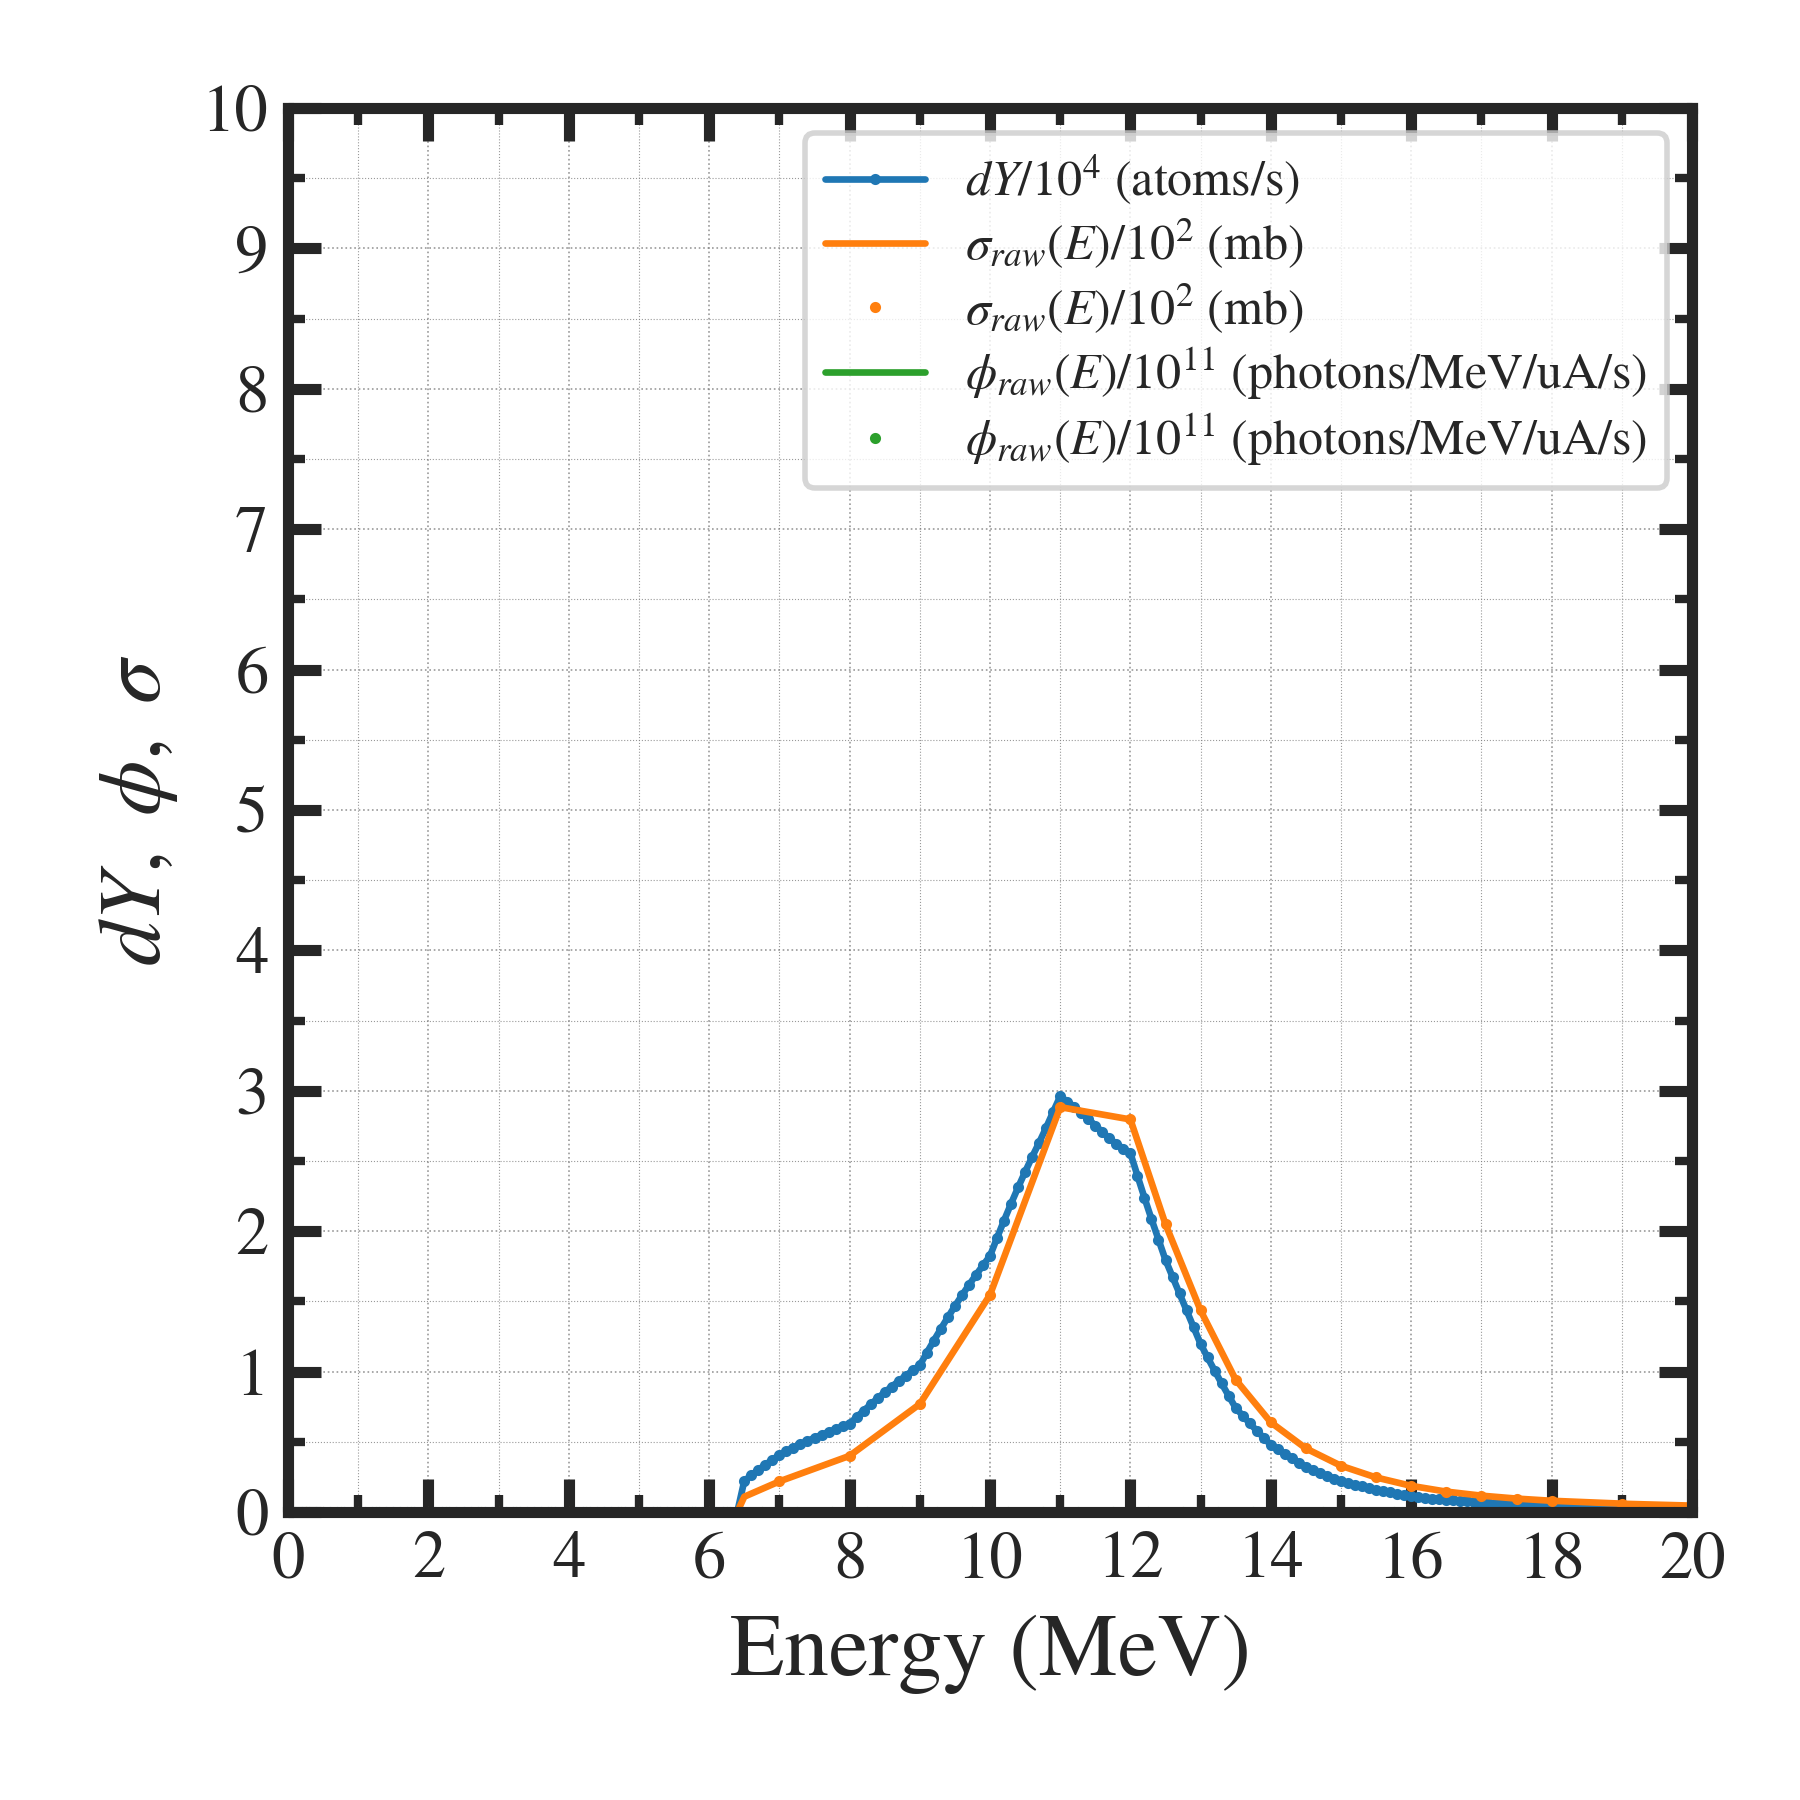
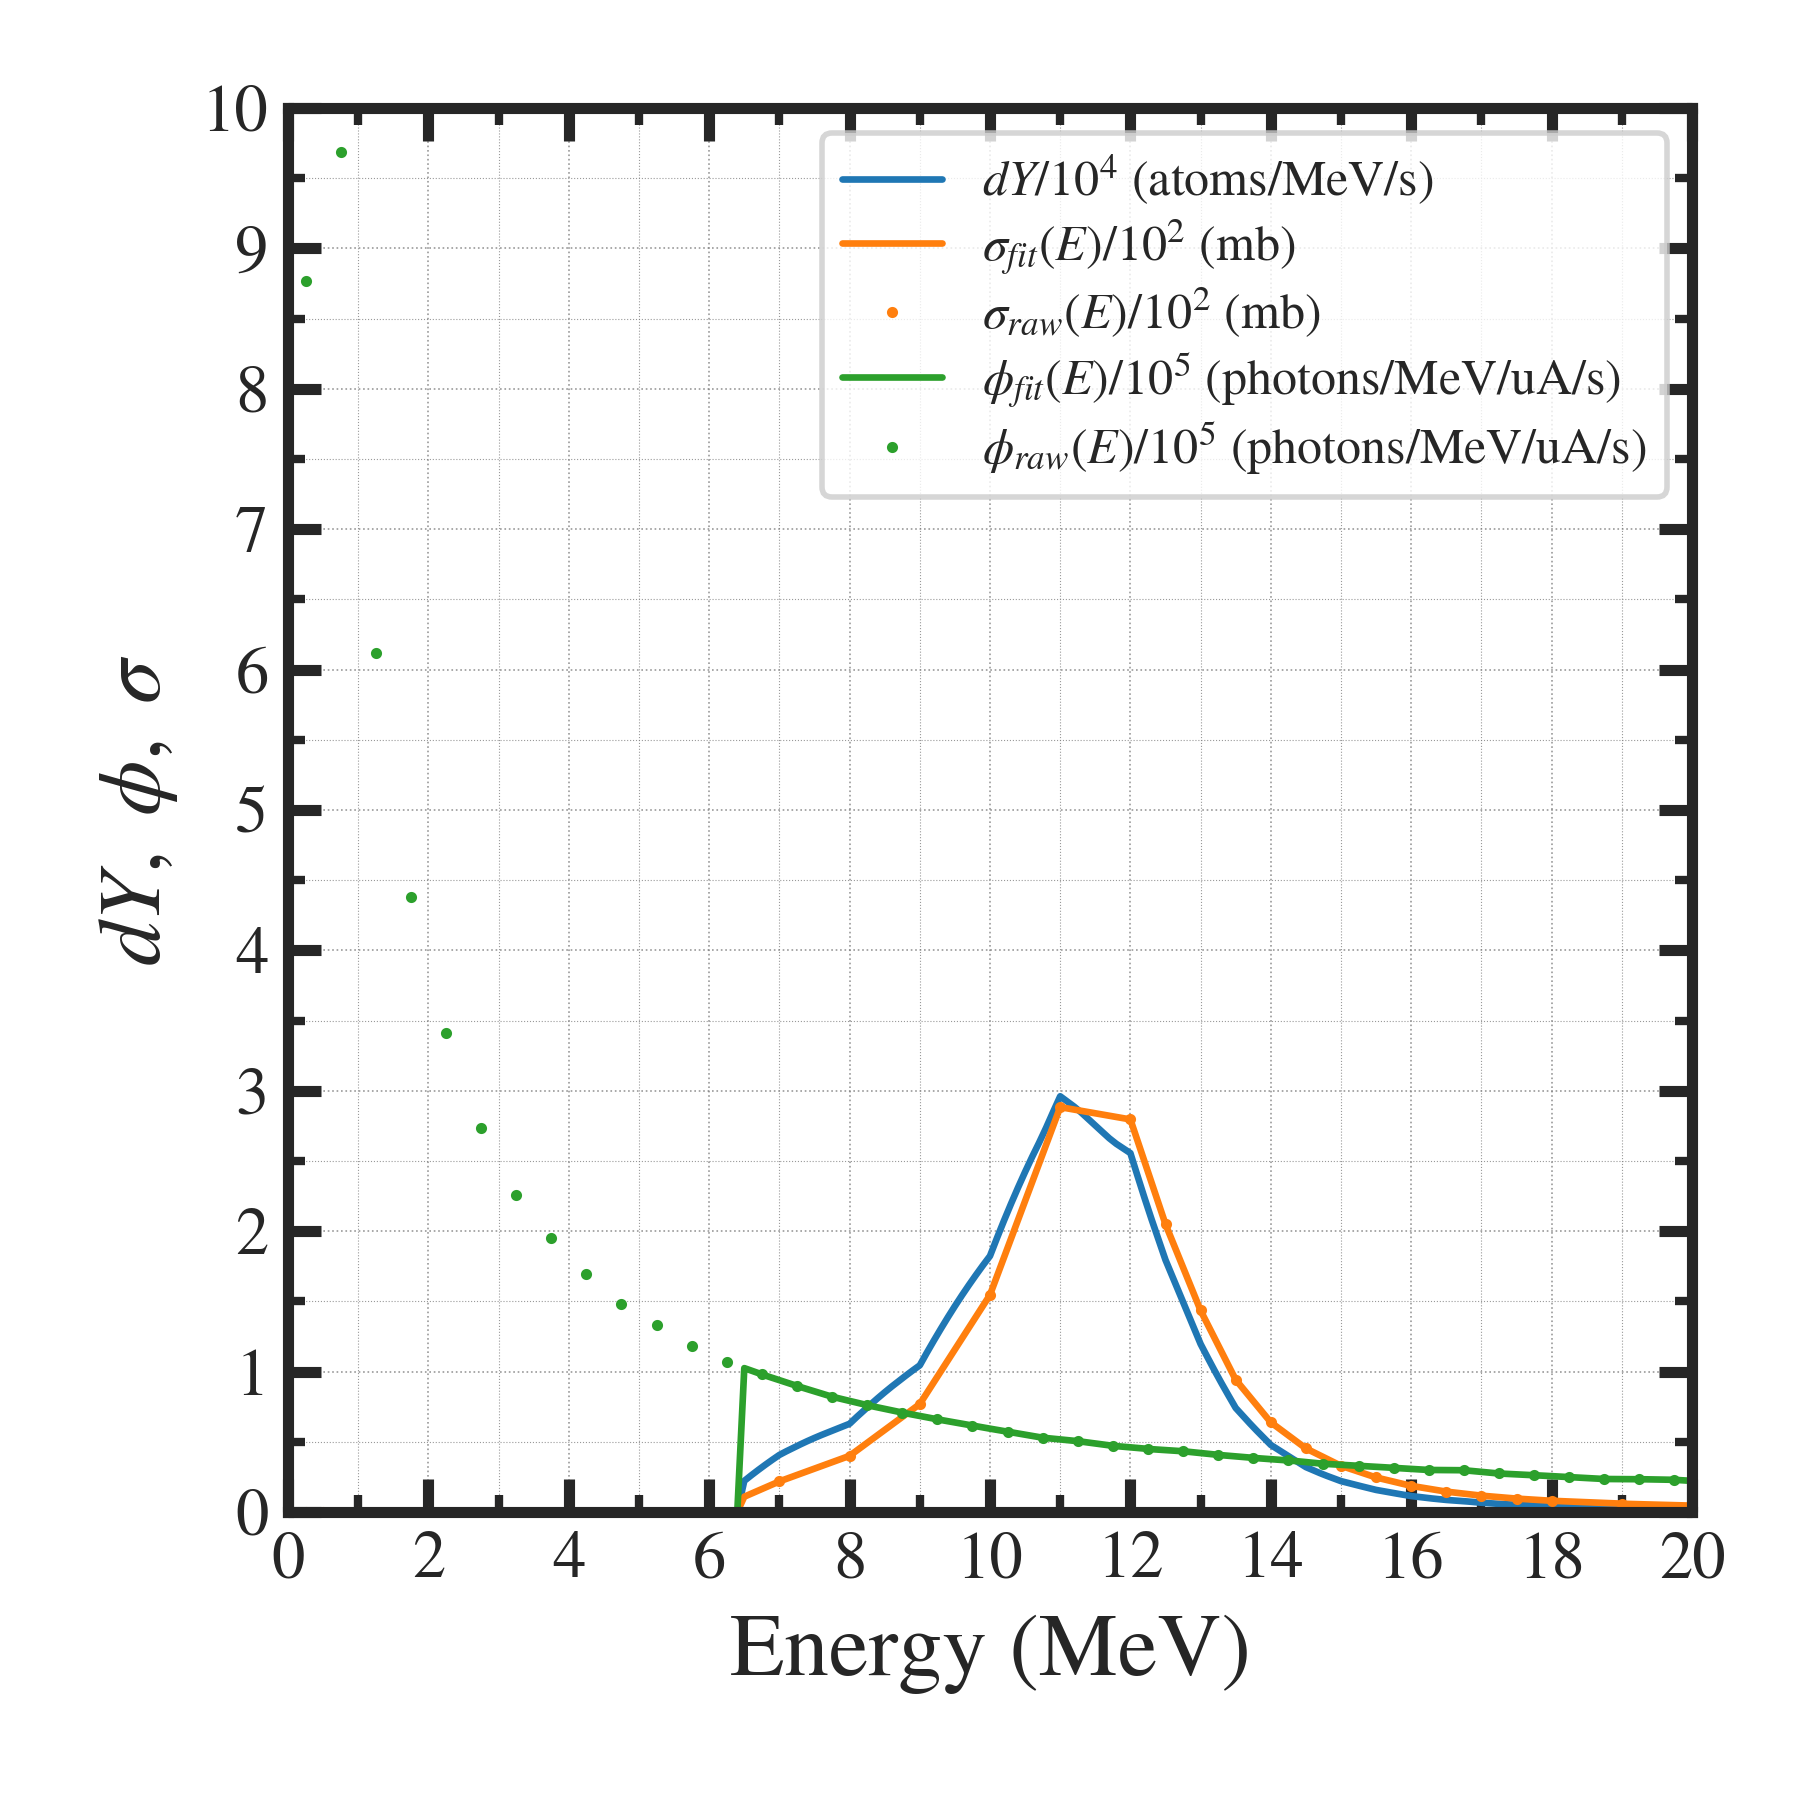
update

Changed region(s): [[0.4356, 0.0622, 0.9333, 0.28], [0.4044, 0.7467, 0.9333, 0.84]]

diff --git a/pyt/estimate__RIproduction.py b/pyt/estimate__RIproduction.py
@@ -82,7 +82,7 @@ def estimate__RIproduction():
     # ------------------------------------------------- #
     Data = { "params":params, "EAxis":EAxis, "results":results, \
              "pf_fit":pf_fit, "xs_fit":xs_fit, "dYield":dYield }
-    write__results( Data=Data, outFile=params["results.filename"] )
+    write__results( Data=Data, params=params )
     return( YieldRate )
 
 
@@ -163,21 +163,24 @@ def draw__figures( params=None, EAxis=None, pf_fit=None, xs_fit=None, \
     # ------------------------------------------------- #
     # --- [1] configure data                        --- #
     # ------------------------------------------------- #
-    if ( params["plot.dYield.norm.auto"] ):
-        params["plot.dYield.norm"] = 10.0**( math.floor( np.log10( abs( np.max( dYield ) ) ) ) )
-    xs_fit_plot = xs_fit        / params["plot.xsection.norm"]
-    pf_fit_plot = pf_fit        / params["plot.photon.norm"]
-    xs_raw_plot = xs_raw[:,xs_] / params["plot.xsection.norm"]
-    pf_raw_plot = pf_raw[:,pf_] / params["plot.photon.norm"]
-    dY_plot     = dYield        / params["plot.dYield.norm"]
-    xs_norm_str = "10^{" + str( round( math.log10( params["plot.xsection.norm"] ) ) ) + "}"
-    pf_norm_str = "10^{" + str( round( math.log10( params["plot.photon.norm"]   ) ) ) + "}"
-    dY_norm_str = "10^{" + str( round( math.log10( params["plot.dYield.norm"]   ) ) ) + "}"
-    label_xs    = "$\sigma_{fit}(E)/" + xs_norm_str + "\ \mathrm{(mb)}$"
-    label_pf    = "$\phi_{fit}(E)/"   + pf_norm_str + "\ \mathrm{(photons/MeV/uA/s)}$"
-    label_dY    = "$dY/ "             + dY_norm_str + "\ \mathrm{(atoms/s)}$"
-    label_xs    = "$\sigma_{raw}(E)/" + xs_norm_str + "\ \mathrm{(mb)}$"
-    label_pf    = "$\phi_{raw}(E)/"   + pf_norm_str + "\ \mathrm{(photons/MeV/uA/s)}$"
+    if ( params["plot.norm.auto"] ):
+        params["plot.dYield.norm"]   = 10.0**( math.floor( np.log10(abs(np.max(dYield))) ) )
+        params["plot.photon.norm"]   = 10.0**( math.floor( np.log10(abs(np.max(pf_fit))) ) )
+        params["plot.xsection.norm"] = 10.0**( math.floor( np.log10(abs(np.max(xs_fit))) ) )
+        
+    xs_fit_plot  = xs_fit        / params["plot.xsection.norm"]
+    pf_fit_plot  = pf_fit        / params["plot.photon.norm"]
+    xs_raw_plot  = xs_raw[:,xs_] / params["plot.xsection.norm"]
+    pf_raw_plot  = pf_raw[:,pf_] / params["plot.photon.norm"]
+    dY_plot      = dYield        / params["plot.dYield.norm"]
+    xs_norm_str  = "10^{" + str( round( math.log10( params["plot.xsection.norm"] ) ) ) + "}"
+    pf_norm_str  = "10^{" + str( round( math.log10( params["plot.photon.norm"]   ) ) ) + "}"
+    dY_norm_str  = "10^{" + str( round( math.log10( params["plot.dYield.norm"]   ) ) ) + "}"
+    label_xs_fit = "$\sigma_{fit}(E)/" + xs_norm_str + "\ \mathrm{(mb)}$"
+    label_pf_fit = "$\phi_{fit}(E)/"   + pf_norm_str + "\ \mathrm{(photons/MeV/uA/s)}$"
+    label_dY     = "$dY/ "             + dY_norm_str + "\ \mathrm{(atoms/MeV/s)}$"
+    label_xs_raw = "$\sigma_{raw}(E)/" + xs_norm_str + "\ \mathrm{(mb)}$"
+    label_pf_raw = "$\phi_{raw}(E)/"   + pf_norm_str + "\ \mathrm{(photons/MeV/uA/s)}$"
     
     # ------------------------------------------------- #
     # --- [2] configure plot                        --- #
@@ -203,15 +206,16 @@ def draw__figures( params=None, EAxis=None, pf_fit=None, xs_fit=None, \
     # --- [3] plot                                  --- #
     # ------------------------------------------------- #
     fig     = pl1.plot1D( config=config, pngFile=params["plot.filename"] )
-    fig.add__plot( xAxis=EAxis       , yAxis=dY_plot    , label=label_dY, color="C0" )
-    fig.add__plot( xAxis=EAxis       , yAxis=xs_fit_plot, label=label_xs, color="C1",\
-                   marker="none" )
-    fig.add__plot( xAxis=xs_raw[:,e_], yAxis=xs_raw_plot, label=label_xs, color="C1", \
-                   linestyle="none" )
-    fig.add__plot( xAxis=EAxis       , yAxis=pf_fit_plot, label=label_pf, color="C2", \
-                   marker="none" )
-    fig.add__plot( xAxis=pf_raw[:,e_], yAxis=pf_raw_plot, label=label_pf, color="C2", \
-                   linestyle="none" )
+    fig.add__plot( xAxis=EAxis       , yAxis=dY_plot    , label=label_dY    , \
+                   color="C0", marker="none"    )
+    fig.add__plot( xAxis=EAxis       , yAxis=xs_fit_plot, label=label_xs_fit, \
+                   color="C1", marker="none"    )
+    fig.add__plot( xAxis=xs_raw[:,e_], yAxis=xs_raw_plot, label=label_xs_raw, \
+                   color="C1", linestyle="none" )
+    fig.add__plot( xAxis=EAxis       , yAxis=pf_fit_plot, label=label_pf_fit, \
+                   color="C2", marker="none"    )
+    fig.add__plot( xAxis=pf_raw[:,e_], yAxis=pf_raw_plot, label=label_pf_raw, \
+                   color="C2", linestyle="none" )
     fig.add__legend( FontSize=9.0 )
     fig.set__axis()
     fig.save__figure()
@@ -221,7 +225,7 @@ def draw__figures( params=None, EAxis=None, pf_fit=None, xs_fit=None, \
 # ========================================================= #
 # ===  write__results                                   === #
 # ========================================================= #
-def write__results( Data=None, outFile="dat/results.dat", stdout="minimum" ):
+def write__results( Data=None, params=None, stdout="minimum" ):
 
     if ( Data is None ): sys.exit( "[estimate__RIproduction.py] Data == ???" )
     text1        = "[paramters]\n"
@@ -255,11 +259,25 @@ def write__results( Data=None, outFile="dat/results.dat", stdout="minimum" ):
         print( texts )
     elif ( stdout == "minimum" ):
         print( "\n" + text2 + "\n" )
-    with open( outFile, "w" ) as f:
-        f.write( texts )
-    print( "[estimate__RIproduction.py] results is saved in {}\n".format( outFile ) )
 
+    if ( params["results.summaryFile"] is not None ):
+        with open( params["results.summaryFile"], "w" ) as f:
+            f.write( texts )
+        print( "[estimate__RIproduction.py] summary    is saved in {}"\
+               .format( params["results.summaryFile"] ) )
 
+    if ( params["results.yieldFile"] is not None ):
+        import nkUtilities.save__pointFile as spf
+        Data_ = [ Data["EAxis"][:,np.newaxis] , Data["dYield"][:,np.newaxis],\
+                  Data["pf_fit"][:,np.newaxis], Data["xs_fit"][:,np.newaxis] ]
+        Data_ = np.concatenate( Data_, axis=1 )
+        names = [ "energy(MeV)", "dYield(atoms/MeV/s)", \
+                  "photonFlux(photons/MeV/uA/s)", "crossSection(mb)" ]
+        spf.save__pointFile( outFile=params["results.yieldFile"], Data=Data_, silent=True )
+        print( "[estimate__RIproduction.py] yield data is saved in {}"\
+               .format( params["results.yieldFile"] ) )
+
+    
 # ========================================================= #
 # ===  convert halflife's unit in seconds               === #
 # ========================================================= #
